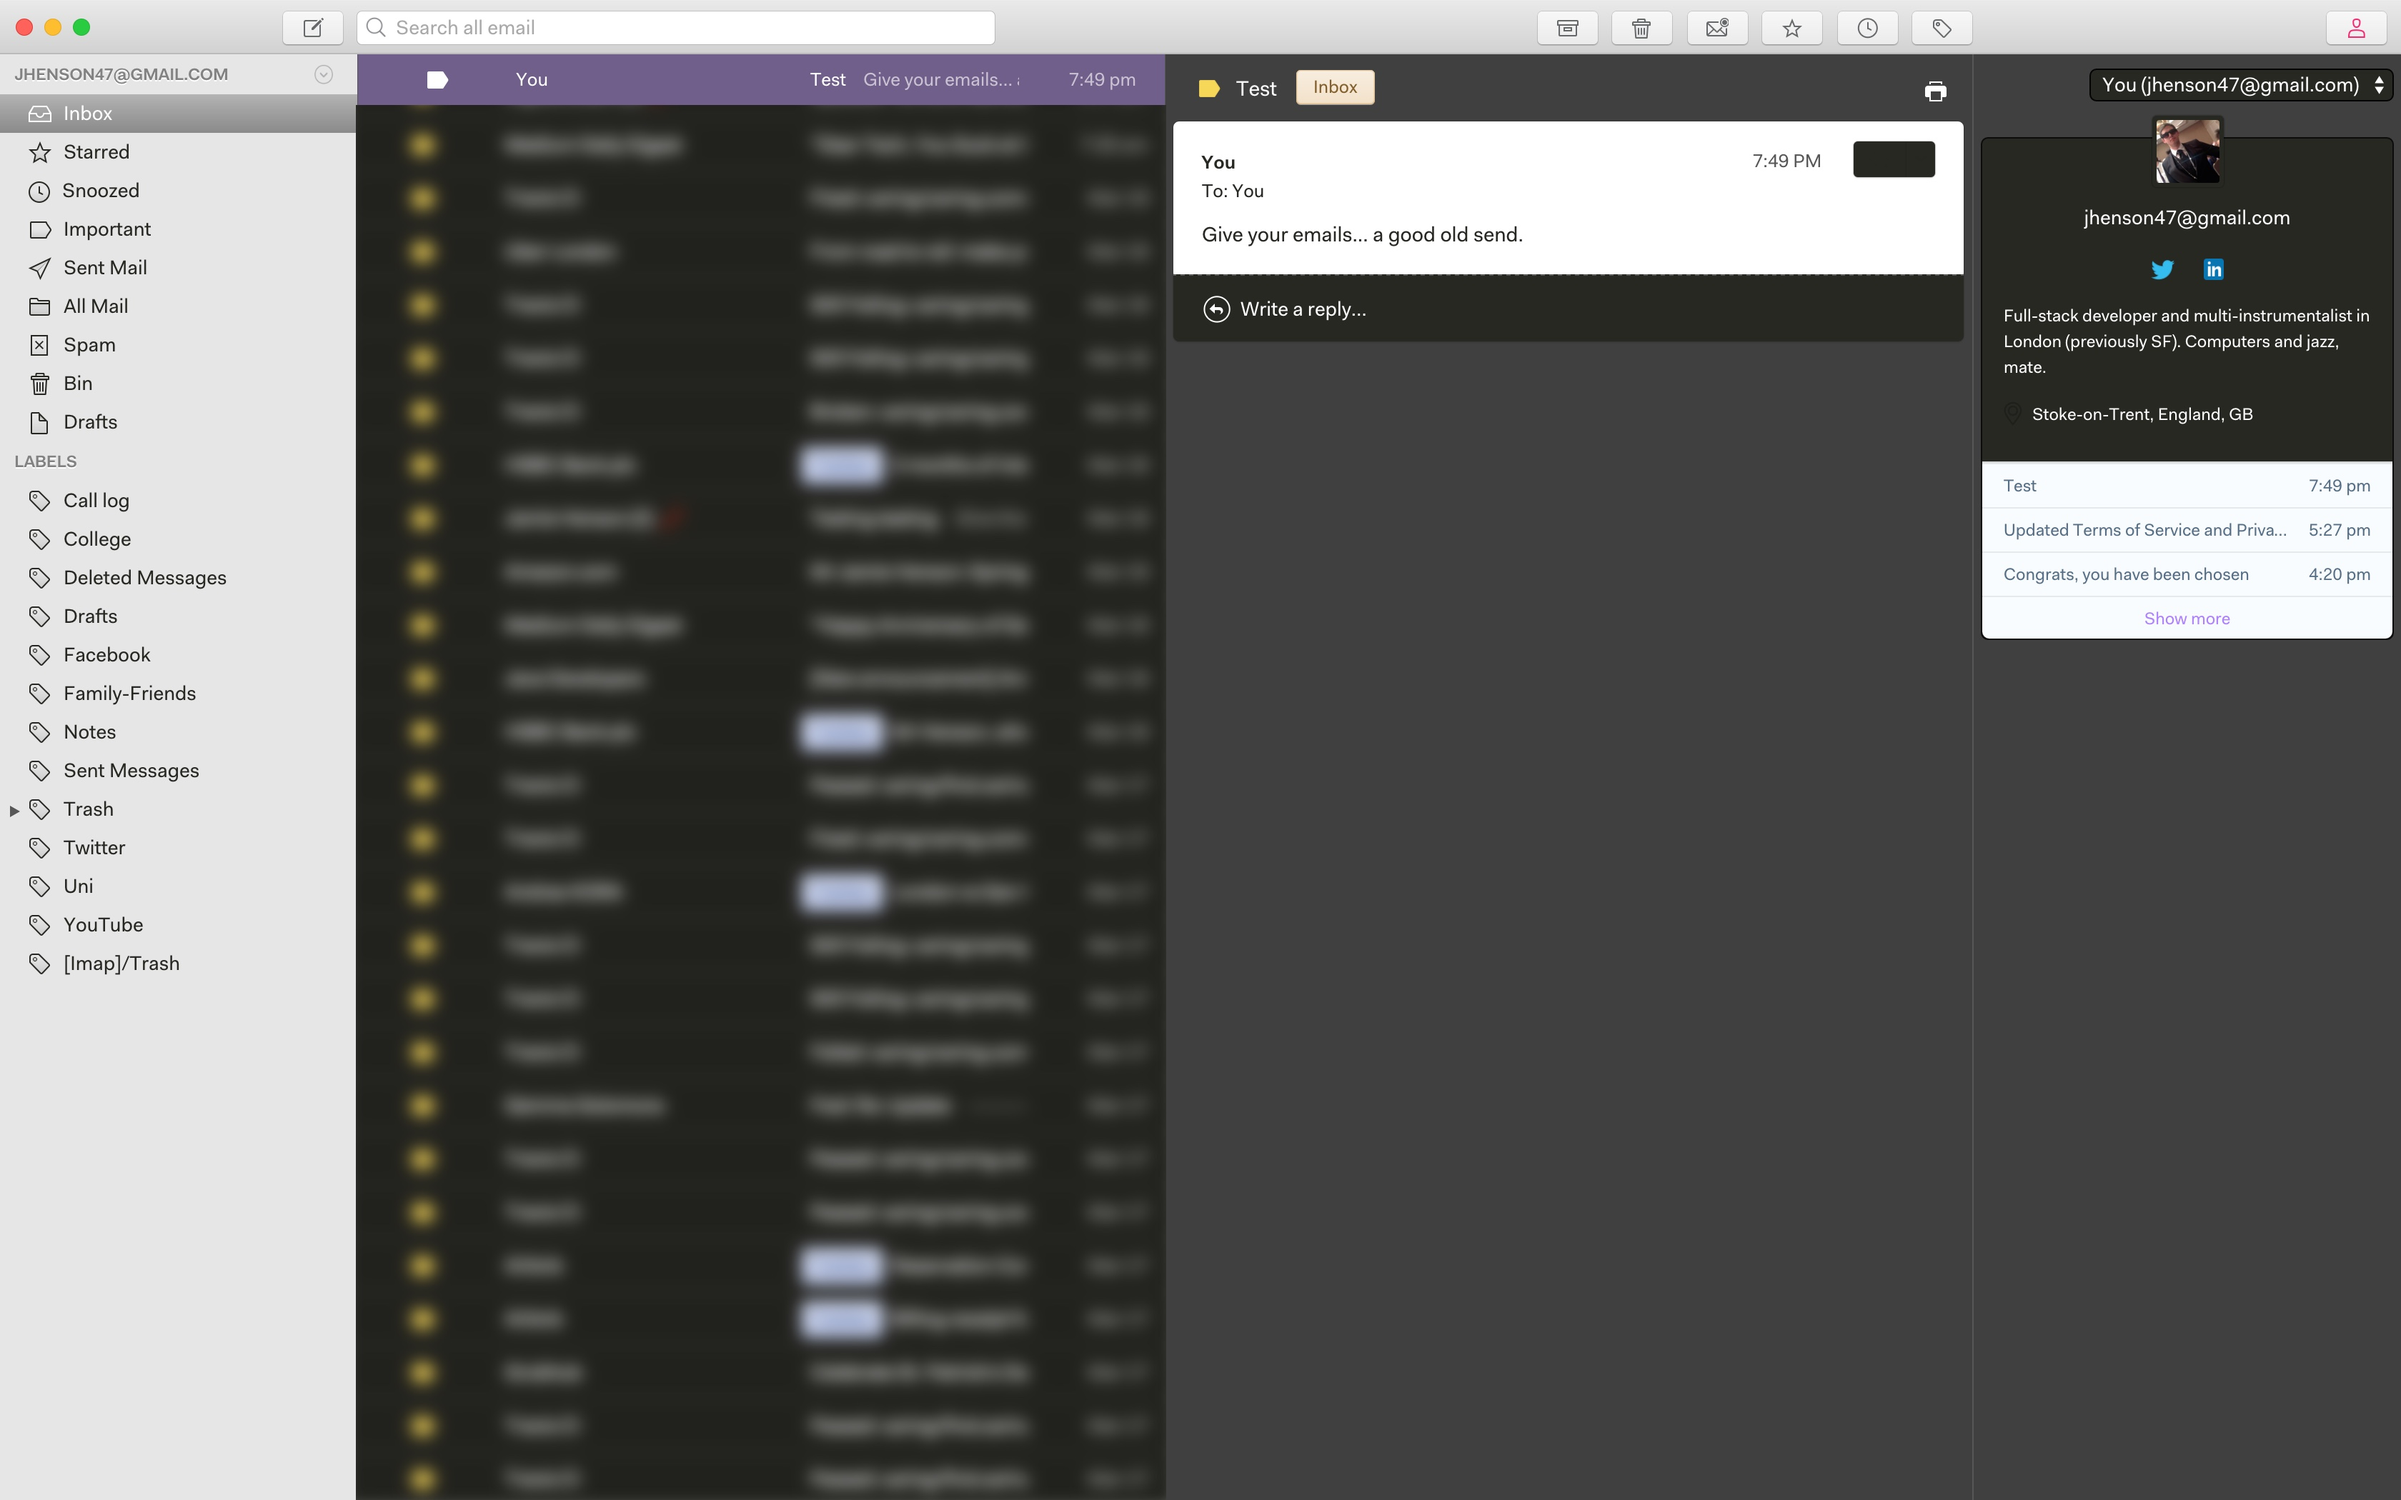
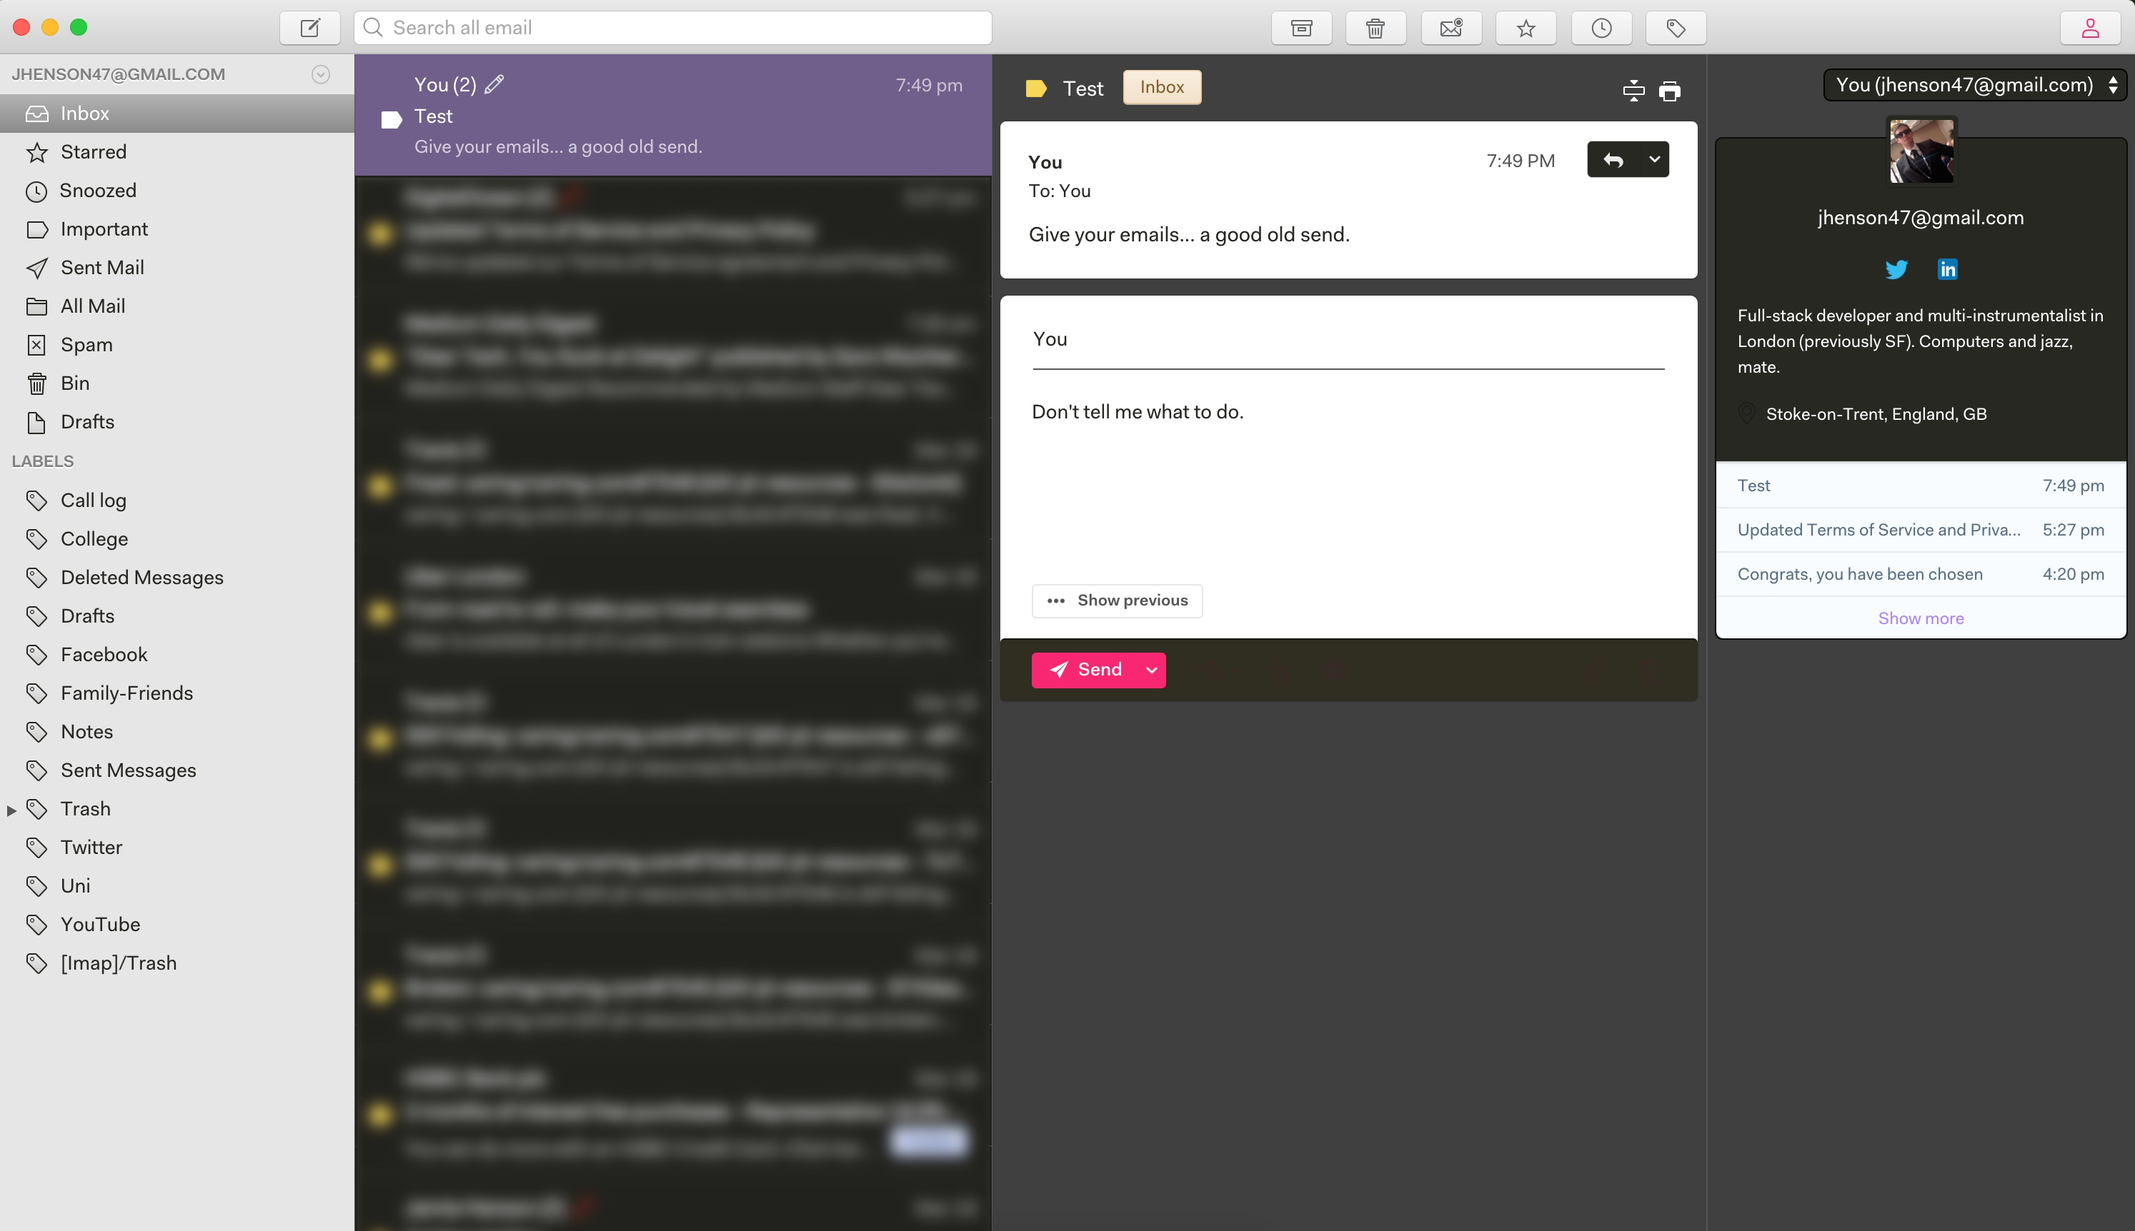
Style tweaks and better screenshot

diff --git a/styles/center.less b/styles/center.less
@@ -20,3 +20,26 @@
     color: white;
   }
 }
+
+.button-dropdown {
+  .primary-item, .secondary-picker, .only-item {
+    img.content-mask {
+      background: white;
+    }
+  }
+  .secondary-items .menu .item {
+    color: white;
+    &.selected {
+      color: @mono-pink;
+    }
+  }
+  img {
+    color: white;
+  }
+  &.btn-emphasis {
+    .primary-item, .secondary-picker {
+      background: @mono-pink;
+      border: none;
+    }
+  }
+}

diff --git a/styles/composer.less b/styles/composer.less
@@ -1,8 +1,11 @@
 .composer-inner-wrap {
   background: white;
   border-radius: 5px;
-  .participant-primary, .contenteditable {
+  .participant-primary {
     color: white !important;
+  }
+  .contenteditable {
+    color: @mono-dark-grey;
   }
 }
 
